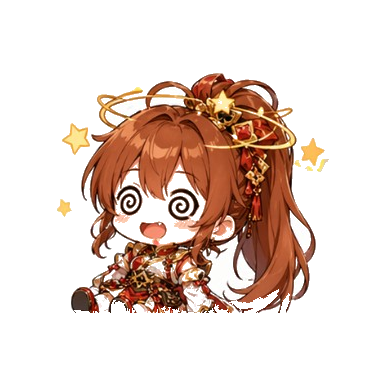
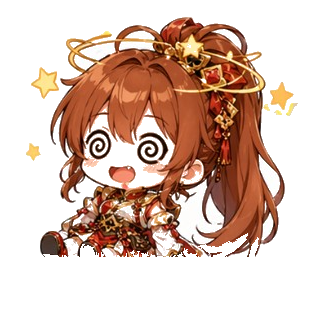
refactor(emoji): 吉祥物贴图贴合最小外接圆，预览页同步更新
- slice_mascot_emojis.py: 用最小外接圆 (Welzl on convex hull) 计算贴图的真实外接轮廓，padding 按 MEC 缩放，安全系数 1.03，消除圆框外侧空白
- preview-mascot.html: 新增 PC 72px / 手机 45px 气泡并排对比 + PC 80px 选择器预览，便于后续尺寸验证
- 9 张 mascot PNG: 按新流水线重新导出，贴图更饱满

Made-with: Cursor:

diff --git a/scripts/preview-mascot.html b/scripts/preview-mascot.html
@@ -45,8 +45,20 @@
         word-break: break-all;
         text-align: center;
       }
-      /* Replicates `.emoji-bubble` from GameBoard.css. */
-      .bubble {
+      /* Replicates `.emoji-bubble` from GameBoard.css (PC default). */
+      .bubble-pc {
+        background: rgba(255, 255, 255, 0.95);
+        border-radius: 50%;
+        padding: 8px;
+        width: 72px;
+        height: 72px;
+        box-shadow: 0 4px 10px rgba(0, 0, 0, 0.3);
+        display: flex;
+        justify-content: center;
+        align-items: center;
+      }
+      /* Mobile bubble (max-width: 768px override). */
+      .bubble-mobile {
         background: rgba(255, 255, 255, 0.95);
         border-radius: 50%;
         padding: 5px;
@@ -57,15 +69,16 @@
         justify-content: center;
         align-items: center;
       }
-      .bubble img {
+      .bubble-pc img,
+      .bubble-mobile img {
         width: 100%;
         height: 100%;
         object-fit: contain;
       }
-      /* Replicates `.emoji-item` from GameBoard.css (picker tile). */
+      /* Replicates `.emoji-item` from GameBoard.css (PC picker tile). */
       .picker {
-        width: 60px;
-        height: 60px;
+        width: 80px;
+        height: 80px;
         display: flex;
         justify-content: center;
         align-items: center;
@@ -133,11 +146,12 @@
         card.innerHTML = `
           <div class="slug">${slug}.png</div>
           <div class="row">
-            <div class="bubble" title="45px bubble"><img src="${base}/${slug}.png" /></div>
-            <div class="picker" title="60px picker"><img src="${base}/${slug}.png" /></div>
+            <div class="bubble-pc" title="PC 72px bubble"><img src="${base}/${slug}.png" /></div>
+            <div class="bubble-mobile" title="Mobile 45px bubble"><img src="${base}/${slug}.png" /></div>
+            <div class="picker" title="PC 80px picker"><img src="${base}/${slug}.png" /></div>
           </div>
           <div class="raw"><img src="${base}/${slug}.png" /></div>
-          <div class="legend">bubble / picker / raw</div>
+          <div class="legend">PC bubble / mobile bubble / PC picker</div>
         `;
         grid.appendChild(card);
       }

diff --git a/scripts/slice_mascot_emojis.py b/scripts/slice_mascot_emojis.py
@@ -31,9 +31,12 @@ import argparse
 import math
 from pathlib import Path
 
+import random
+
 import numpy as np
 from PIL import Image, ImageDraw
-from scipy.ndimage import label
+from scipy.ndimage import binary_erosion, label
+from scipy.spatial import ConvexHull
 
 
 REPO_ROOT = Path(__file__).resolve().parent.parent
@@ -61,10 +64,12 @@ LABEL_CROP_RATIO = 0.78
 # outline stops the fill.
 FLOOD_TOLERANCE = 42
 
-# Safety multiplier applied to the bounding-box diagonal when computing the
-# square canvas side. 1.0 would inscribe the bbox corners on the circle; a bit
-# of headroom (1.06) keeps the character visually comfortable inside the bubble.
-CIRCLE_SAFETY = 1.06
+# Safety multiplier applied to the minimum-enclosing-circle radius of the
+# sticker's opaque silhouette when sizing the square canvas. Because we fit to
+# the actual silhouette (not the bounding-box diagonal), the sticker fills the
+# circular bubble almost edge-to-edge. A small margin keeps anti-aliased edge
+# pixels from being clipped by `border-radius: 50%`.
+CIRCLE_SAFETY = 1.03
 
 # Chroma-key residual pass: any still-opaque pixel that is clearly warm-cream
 # (R > G > B with noticeable gaps) gets cleared. This catches small beige
@@ -209,18 +214,107 @@ def tight_trim(img: Image.Image) -> Image.Image:
     return img.crop(bbox)
 
 
+def _min_enclosing_circle(points: np.ndarray) -> tuple[float, float, float]:
+    """Return (cx, cy, r) of the smallest circle that contains all points.
+
+    Uses Welzl's algorithm iteratively; only a handful of convex-hull vertices
+    are actually required so the input is expected to be the hull of the
+    sticker silhouette.
+    """
+    pts = [tuple(p) for p in points.tolist()]
+    random.Random(0).shuffle(pts)
+
+    def in_circle(c, p):
+        if c is None:
+            return False
+        dx = p[0] - c[0]
+        dy = p[1] - c[1]
+        return dx * dx + dy * dy <= c[2] * c[2] + 1e-7
+
+    def diameter(p, q):
+        return ((p[0] + q[0]) / 2, (p[1] + q[1]) / 2,
+                math.hypot(p[0] - q[0], p[1] - q[1]) / 2)
+
+    def circumscribed(p, q, r):
+        ax, ay = p
+        bx, by = q
+        cx, cy = r
+        d = 2 * (ax * (by - cy) + bx * (cy - ay) + cx * (ay - by))
+        if abs(d) < 1e-12:
+            return diameter(p, q)
+        ux = (
+            (ax * ax + ay * ay) * (by - cy)
+            + (bx * bx + by * by) * (cy - ay)
+            + (cx * cx + cy * cy) * (ay - by)
+        ) / d
+        uy = (
+            (ax * ax + ay * ay) * (cx - bx)
+            + (bx * bx + by * by) * (ax - cx)
+            + (cx * cx + cy * cy) * (bx - ax)
+        ) / d
+        return (ux, uy, math.hypot(ux - ax, uy - ay))
+
+    def with_two(boundary_pts, p, q):
+        c = diameter(p, q)
+        for i, r in enumerate(boundary_pts):
+            if not in_circle(c, r):
+                c = circumscribed(p, q, r)
+        return c
+
+    def with_one(boundary_pts, p):
+        c = (p[0], p[1], 0.0)
+        for i, q in enumerate(boundary_pts):
+            if not in_circle(c, q):
+                c = with_two(boundary_pts[:i], p, q)
+        return c
+
+    c = None
+    for i, p in enumerate(pts):
+        if not in_circle(c, p):
+            c = with_one(pts[:i], p)
+    return c if c is not None else (0.0, 0.0, 0.0)
+
+
 def pad_to_circle_safe_square(sticker: Image.Image) -> Image.Image:
-    """Center the sticker inside a transparent square whose side is at least
-    the bounding-box diagonal. Ensures the sticker fits inside the inscribed
-    circle of the square when rendered under `border-radius: 50%`."""
+    """Center the sticker inside a transparent square whose inscribed circle
+    just contains the sticker's opaque silhouette.
+
+    Fitting to the minimum enclosing circle (instead of the bbox diagonal)
+    lets the sticker fill the round bubble almost edge-to-edge rather than
+    leaving the bbox corners as wasted empty space.
+    """
+    arr = np.array(sticker)
+    if arr.ndim != 3 or arr.shape[2] != 4:
+        return sticker
+    mask = arr[:, :, 3] > 0
+    if not mask.any():
+        return sticker
+
+    boundary = mask & ~binary_erosion(mask)
+    ys, xs = np.where(boundary)
+    points = np.column_stack([xs, ys])
+
+    if len(points) >= 4:
+        try:
+            hull = ConvexHull(points)
+            points = points[hull.vertices]
+        except Exception:
+            pass
+
+    cx, cy, r = _min_enclosing_circle(points.astype(float))
+
     w, h = sticker.size
-    diagonal = math.sqrt(w * w + h * h)
-    side = math.ceil(diagonal * CIRCLE_SAFETY)
+    side = max(
+        math.ceil(2 * r * CIRCLE_SAFETY),
+        math.ceil(max(w, h) * 1.01),
+    )
     if side % 2:
         side += 1
+
     canvas = Image.new("RGBA", (side, side), (0, 0, 0, 0))
-    offset = ((side - w) // 2, (side - h) // 2)
-    canvas.paste(sticker, offset, sticker)
+    offset_x = int(round(side / 2 - cx))
+    offset_y = int(round(side / 2 - cy))
+    canvas.paste(sticker, (offset_x, offset_y), sticker)
     return canvas
 
 
